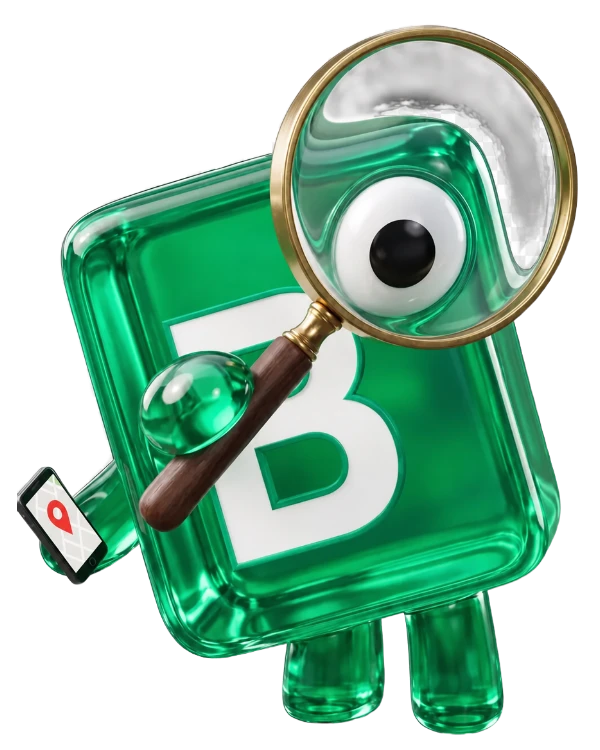
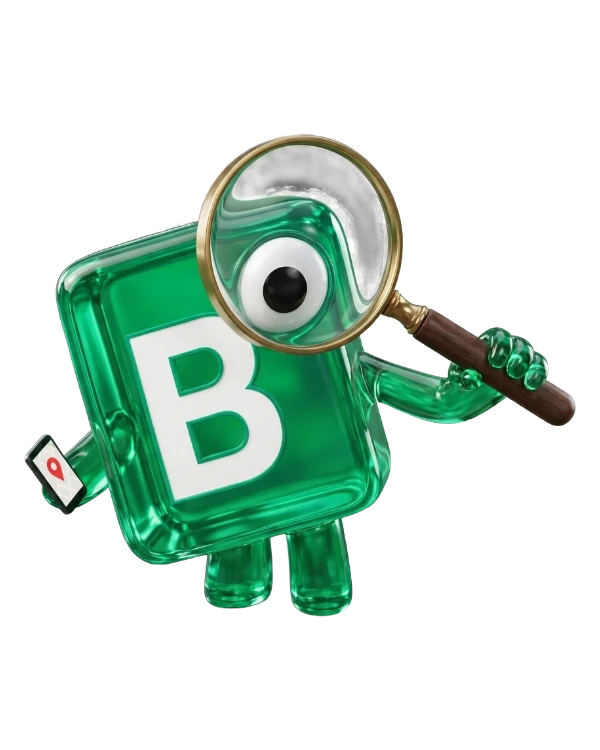
Maskoten: tillbaka till stillbilder med CSS-rörelse och levande öga (#183)
Mathias skärminspelning 2026-09-06: AI-filmerna morphar (geléig kropp,
svävande ben, blinkning som en tom grön kula i en halv sekund). Det var
inte hackighet utan själva rörelsen. Alla fem scener är åter renders med
exakt CSS-rörelse (idle-studs, pop-in, hopp vid hover) och SVG-ögat som
blinkar och tittar mot pekaren. Luppscenen använder Mathias egen render,
utklippt till 3:4. Filmarken (5 MB) borttagna ur repot; MaskotFilm-
komponenten finns kvar om ett bättre klipp dyker upp.

diff --git a/web/app/(sajt)/page.js b/web/app/(sajt)/page.js
@@ -2,7 +2,7 @@ import Link from 'next/link';
 import HeroBygge from '../komponenter/HeroBygge';
 import HeroVideo from '../komponenter/HeroVideo';
 import Maskot from '../komponenter/Maskot';
-import MaskotFilm from '../komponenter/MaskotFilm';
+import MaskotScen from '../komponenter/MaskotScen';
 import Marquee from '../komponenter/Marquee';
 import Rakna from '../komponenter/Rakna';
 import Portfolj from '../komponenter/Portfolj';
@@ -102,12 +102,12 @@ export default function Start() {
               </div>
             ))}
           </div>
-          {/* Riktig film (Seedance 2.5 → ark med alfa): andas, blinkar, pekar */}
-          <MaskotFilm
+          <MaskotScen
             className={styles.siffrorScen}
-            still="/img/maskot-film/pekar-stoppur-still.webp"
-            ark={{ src: '/img/maskot-film/pekar-stoppur.webp', fps: 24, ramar: 121, kolumner: 13, bredd: 300, hojd: 403 }}
+            src="/img/maskot-scener/pekar-stoppur.webp"
             alt="Bahko-maskoten i bygghjälm pekar på siffrorna med ett stoppur i handen"
+            oga={{ x: 74.8, y: 43.9, rx: 6.0, ry: 4.8, gron: 'rgb(22,114,77)' }}
+            index={0}
           />
         </div>
       </section>
@@ -140,11 +140,12 @@ export default function Start() {
                 Så bygger vi {PIL}
               </Link>
             </div>
-            <MaskotFilm
+            {/* Ögat sitter bakom luppen — Mathias egen render, som den är */}
+            <MaskotScen
               className={styles.panelFigur}
-              still="/img/maskot-film/forstoringsglas-still.webp"
-              ark={{ src: '/img/maskot-film/forstoringsglas.webp', fps: 24, ramar: 121, kolumner: 11, bredd: 300, hojd: 300 }}
+              src="/img/maskot-scener/forstoringsglas.webp"
               alt="Bahko-maskoten granskar en mobil med ett förstoringsglas"
+              index={1}
             />
           </div>
           <div className={styles.panelScen}>
@@ -167,10 +168,11 @@ export default function Start() {
               </p>
             </div>
             <div className={styles.tjanstMaskot}>
-              <MaskotFilm
-                still="/img/maskot-film/ringer-still.webp"
-                ark={{ src: '/img/maskot-film/ringer.webp', fps: 24, ramar: 121, kolumner: 13, bredd: 300, hojd: 403 }}
+              <MaskotScen
+                src="/img/maskot-scener/ringer.webp"
                 alt="Bahko-maskoten i bygghjälm håller upp en mobil som ringer"
+                oga={{ x: 65.9, y: 38.4, rx: 4.7, ry: 3.7, gron: 'rgb(33,127,94)' }}
+                index={2}
               />
             </div>
           </div>
@@ -210,11 +212,12 @@ export default function Start() {
               <h3>Se er nya hemsida innan ni bestämmer er.</h3>
               <p>Komplett förslag inom 48 timmar. Det kostar ingenting att titta.</p>
             </div>
-            <MaskotFilm
+            <MaskotScen
               className={styles.processScen}
-              still="/img/maskot-film/visar-sajten-still.webp"
-              ark={{ src: '/img/maskot-film/visar-sajten.webp', fps: 24, ramar: 121, kolumner: 13, bredd: 300, hojd: 403 }}
+              src="/img/maskot-scener/visar-sajten.webp"
               alt="Bahko-maskoten visar upp ett hemsideförslag på en surfplatta"
+              oga={{ x: 73.3, y: 38.9, rx: 6.45, ry: 5.0, gron: 'rgb(20,112,75)' }}
+              index={3}
             />
             <Link href="/kontakt/" className="btn btn-primar">
               Se er sida kostnadsfritt {PIL}
@@ -256,11 +259,12 @@ export default function Start() {
           </h2>
           <p className={styles.gratisMaskot}>
             <span>Båda är kostnadsfria. Ni behöver inte bestämma något idag.</span>
-            <MaskotFilm
+            <MaskotScen
               className={styles.gratisScen}
-              still="/img/maskot-film/fikar-still.webp"
-              ark={{ src: '/img/maskot-film/fikar.webp', fps: 24, ramar: 121, kolumner: 13, bredd: 300, hojd: 403 }}
+              src="/img/maskot-scener/fikar.webp"
               alt="Bahko-maskoten sitter på en hög plankor och fikar"
+              oga={{ x: 72.7, y: 40.1, rx: 3.85, ry: 3.5, gron: 'rgb(28,147,96)' }}
+              index={4}
             />
           </p>
 
